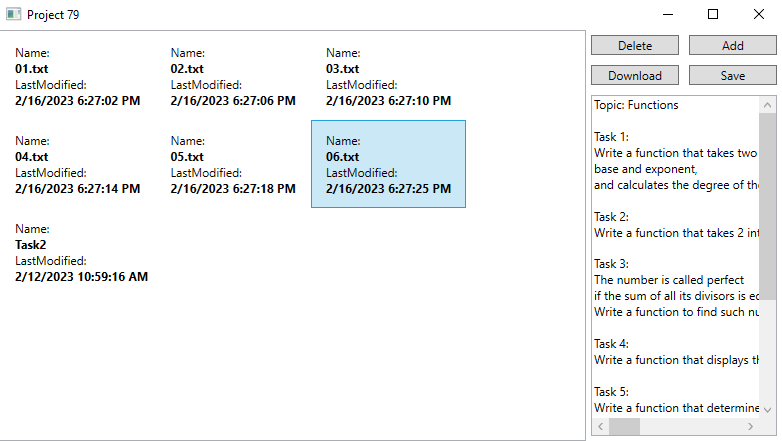
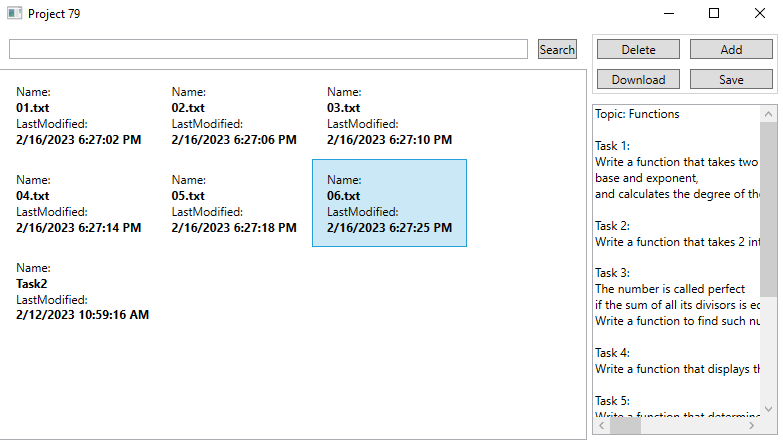
added search

diff --git a/Project_79/Views/MainView.xaml b/Project_79/Views/MainView.xaml
@@ -10,11 +10,23 @@
         <ResourceDictionary Source="/Styles/StyleMain.xaml"/>
     </UserControl.Resources>
     <Grid>
+        <Grid.RowDefinitions>
+            <RowDefinition Height="Auto"/>
+            <RowDefinition/>
+        </Grid.RowDefinitions>
         <Grid.ColumnDefinitions>
             <ColumnDefinition Width="6*"/>
             <ColumnDefinition Width="2*"/>
         </Grid.ColumnDefinitions>
-        <ListBox ItemsSource="{Binding Path=Main.Blobs}" SelectedItem="{Binding Path=Main.SelectedBlob}" ScrollViewer.HorizontalScrollBarVisibility="Disabled">
+        <Grid Grid.Row="0" Grid.Column="0" Margin="5">
+            <Grid.ColumnDefinitions>
+                <ColumnDefinition/>
+                <ColumnDefinition Width="Auto"/>
+            </Grid.ColumnDefinitions>
+            <TextBox Grid.Column="0" Text="{Binding Path=Main.Search}"/>
+            <Button Grid.Column="1" Content="Search" Command="{Binding Path=SearchCommand}"/>
+        </Grid>
+        <ListBox Grid.Row="1" Grid.Column="0" ItemsSource="{Binding Path=Main.Blobs}" SelectedItem="{Binding Path=Main.SelectedBlob}" ScrollViewer.HorizontalScrollBarVisibility="Disabled">
             <ListBox.ItemTemplate>
                 <DataTemplate>
                     <local:BlobView/>
@@ -27,12 +39,13 @@
             </ListBox.ItemsPanel>
         </ListBox>
 
-        <Grid Grid.Column="1">
+        <Grid Grid.Row="0" Grid.Column="1" Grid.RowSpan="2">
             <Grid.RowDefinitions>
                 <RowDefinition Height="Auto"/>
                 <RowDefinition/>
             </Grid.RowDefinitions>
-            <Grid>
+            <Border BorderThickness="1" BorderBrush="LightGray" Margin="5"/>
+            <Grid Margin="5">
                 <Grid.RowDefinitions>
                     <RowDefinition/>
                     <RowDefinition/>

diff --git a/Project_79/ViewModels/MainViewModel.cs b/Project_79/ViewModels/MainViewModel.cs
@@ -33,6 +33,11 @@ namespace Project_79.ViewModels
         {
             get { return _saveCommand ?? (_saveCommand = new RelayCommand(obj => { Save(); })); }
         }
+        private RelayCommand? _searchCommand;
+        public RelayCommand SearchCommand
+        {
+            get { return _searchCommand ?? (_searchCommand = new RelayCommand(obj => { Search(); })); }
+        }
         string BlobStorageConnectionString = "DefaultEndpointsProtocol=https;AccountName=valik;AccountKey=KMcTOADr+UnVoRIBTMkQNGj1DkmzIJW1f2CMbiaIQN9W8jhabvoYNIrvxtsa1OVLkwi0BItQvElx+AStWdlqTQ==;EndpointSuffix=core.windows.net";
         string BlobStorageContainerName = "blob";
         public Main Main { get; set; } = new();
@@ -60,7 +65,7 @@ namespace Project_79.ViewModels
             }
         }
 
-        private async void LoadFilesAsync()
+        private async void LoadFilesAsync(string? search = null)
         {
             await Task.Run(() =>
             {
@@ -75,7 +80,11 @@ namespace Project_79.ViewModels
                 {
                     foreach (var item in listName)
                     {
-                        Main.Blobs.Add(new BlobViewModel(item));
+                        if(search == null)
+                        {
+                            Main.Blobs.Add(new BlobViewModel(item));
+                        }
+                        else if(item.Name.Contains(search)) Main.Blobs.Add(new BlobViewModel(item));
                     }
                 });
             });
@@ -118,6 +127,10 @@ namespace Project_79.ViewModels
         private void Save()
         {
             if (Main.SelectedBlob != null) Main.SelectedBlob.UploadText(Main.Text);
+        }
+        private void Search()
+        {
+            LoadFilesAsync(Main.Search);
         }
     }
 }

diff --git a/Project_79/Models/Main.cs b/Project_79/Models/Main.cs
@@ -25,5 +25,15 @@ namespace Project_79.Models
                 OnPropertyChanged("Text");
             }
         }
+        private string _search = "";
+        public string Search
+        {
+            get { return _search; }
+            set
+            {
+                _search = value;
+                OnPropertyChanged("Search");
+            }
+        }
     }
 }
